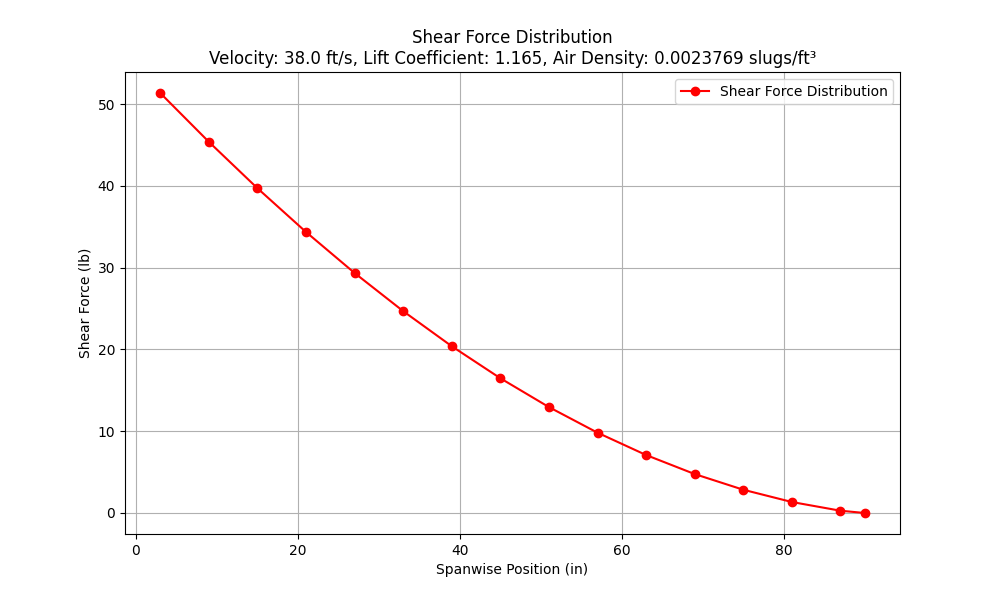
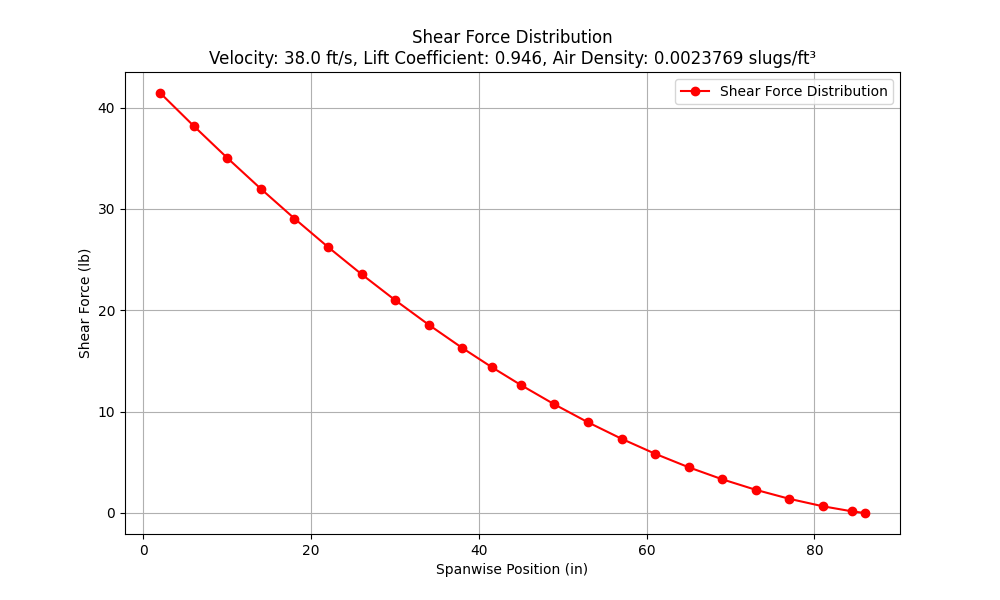
update 12

diff --git a/Prandtl_Elliptical_Lift_Distribution.py b/Prandtl_Elliptical_Lift_Distribution.py
@@ -4,7 +4,7 @@ import matplotlib.pyplot as plt
 import logging
 
 class EllipticalLiftDistribution:
-    def __init__(self, span, lift_coefficient, rho, velocity, root_chord, tip_chord, output_folder='Wing_Loading',design_load=3.52):
+    def __init__(self, span, lift_coefficient, rho, velocity, root_chord, tip_chord, output_folder='Wing_Loading', design_load=3.52):
         self.span = span
         self.lift_coefficient = lift_coefficient
         self.rho = rho
@@ -16,13 +16,15 @@ class EllipticalLiftDistribution:
         os.makedirs(self.output_folder, exist_ok=True)
         logging.info(f"Parameters: span={span} in, lift_coefficient={lift_coefficient}, rho={rho}, velocity={velocity} ft/s, root_chord={root_chord} in, tip_chord={tip_chord} in")
 
+    # Calculate lift at a given spanwise position
     def lift_at_position(self, y_position):
         b = self.span / 2  # Semi-span
         taper_ratio = self.tip_chord / self.root_chord
         chord_length = self.root_chord * (1 - (1 - taper_ratio) * y_position / b)  # Linear taper
         lift = (4 * self.lift_coefficient * self.rho * self.velocity**2 * chord_length) / (np.pi * self.span) * np.sqrt(1 - (y_position / b)**2)
         return lift, chord_length  # Return lift in lb/in
-
+    
+    # Calculate loads, shear forces, and bending moments
     def calculate_distributions(self, positions):
         lifts_and_chords = [self.lift_at_position(pos) for pos in positions]
         lifts_and_chords[-1] = (0, self.tip_chord)  # Add zero lift at the wingtip
@@ -31,7 +33,9 @@ class EllipticalLiftDistribution:
         for i in range(len(positions) - 1):
             delta_pos = positions[i + 1] - positions[i]
             loads[i] = lifts_and_chords[i][0] * delta_pos
+            logging.debug(f"Position {positions[i]:.2f} in, Lift {lifts_and_chords[i][0]:.2f} lb/in, Delta Pos {delta_pos:.2f} in, Load {loads[i]:.2f} lb")
         loads[-1] = lifts_and_chords[-1][0] * (positions[-1] - positions[-2])
+        logging.debug(f"Position {positions[-1]:.2f} in, Lift {lifts_and_chords[-1][0]:.2f} lb/in, Delta Pos {positions[-1] - positions[-2]:.2f} in, Load {loads[-1]:.2f} lb")
 
         shear_forces = np.zeros(len(positions))
         for i in range(len(positions) - 1, -1, -1):
@@ -39,6 +43,7 @@ class EllipticalLiftDistribution:
                 shear_forces[i] = 0  # Shear force at the wing tip is zero
             else:
                 shear_forces[i] = shear_forces[i + 1] + loads[i]
+            logging.debug(f"Position {positions[i]:.2f} in, Shear Force {shear_forces[i]:.2f} lb")
 
         bending_moments = np.zeros(len(positions))
         for i in range(len(positions) - 1, -1, -1):
@@ -47,9 +52,11 @@ class EllipticalLiftDistribution:
             else:
                 delta_pos = positions[i + 1] - positions[i]
                 bending_moments[i] = bending_moments[i + 1] + shear_forces[i] * delta_pos
+            logging.debug(f"Position {positions[i]:.2f} in, Bending Moment {bending_moments[i]:.2f} lb-in")
 
         return lifts_and_chords, loads, shear_forces, bending_moments
 
+    # Plot distributions
     def plot_distribution(self, positions, values, ylabel, title, filename, figure_num, color='b', fontweight='normal'):
         plt.figure(num=figure_num, figsize=(10, 6))
         plt.plot(positions, values, '-o', label=title, color=color)
@@ -62,10 +69,12 @@ class EllipticalLiftDistribution:
         plt.show()
         logging.info(f"Plotted and saved the {title.lower()}")
 
+    # Log results
     def log_results(self, positions, lifts_chords_loads_shear_moment):
         for pos, (lift, chord, load, shear_force, bending_moment) in zip(positions, lifts_chords_loads_shear_moment):
             logging.info(f"Lift per unit span at {pos:.2f} in: {lift:.2f} lb/in, Chord length: {chord:.2f} in, Load: {load:.2f} lb, Shear force: {shear_force:.2f} lb, Bending moment: {bending_moment:.2f} lb-in")
 
+    # Size the spar
     def size_spar(self, bending_moments, yield_strength):
         max_bending_moment = max(bending_moments)
         required_section_modulus = max_bending_moment * self.design_load / yield_strength
@@ -108,12 +117,12 @@ class EllipticalLiftDistribution:
 # Example usage
 if __name__ == "__main__":
     # Configure logging
-    logging.basicConfig(filename='Wing_Loading_Log.log', level=logging.INFO, 
+    logging.basicConfig(filename='Wing_Loading_Log.log', level=logging.DEBUG, 
                         format='%(asctime)s - %(levelname)s - %(message)s')
 
     # Define parameters in imperial units (inches)
     span = 15 * 12  # Total wingspan in inches
-    lift_coefficient = 1.165  # Lift coefficient (CL)
+    lift_coefficient = .946  # Lift coefficient (CL)
     rho = 0.0023769  # Air density in slugs/ft³
     velocity = 38.0  # Flight velocity in feet per second
     root_chord = 3 * 12  # Root chord length in inches
@@ -126,7 +135,7 @@ if __name__ == "__main__":
     distribution = EllipticalLiftDistribution(span, lift_coefficient, rho, velocity, root_chord, tip_chord)
 
     # Example positions in inches
-    positions = [0.25 * 12, 0.75 * 12, 1.25 * 12, 1.75 * 12, 2.25 * 12, 2.75 * 12, 3.25 * 12, 3.75 * 12, 4.25 * 12, 4.75 * 12, 5.25 * 12, 5.75 * 12, 6.25 * 12, 6.75 * 12, 7.25 * 12, 7.5 * 12]
+    positions = [0.166667 * 12, 0.5 * 12, 0.833333 * 12, 1.16667 * 12, 1.5 * 12, 1.83333 * 12, 2.16667 * 12, 2.5 * 12, 2.83333 * 12, 3.16667 * 12, 3.458333 * 12, 3.75 * 12, 4.08333 * 12, 4.41667 * 12, 4.75 * 12, 5.08333 * 12, 5.41667 * 12, 5.75 * 12, 6.08333 * 12, 6.41667 * 12, 6.75 * 12, 7.041667 * 12, 7.16667 * 12]
 
     # Calculate distributions
     lifts_and_chords, loads, shear_forces, bending_moments = distribution.calculate_distributions(positions)
@@ -142,9 +151,6 @@ if __name__ == "__main__":
 
     # Log results
     distribution.log_results(positions, lifts_chords_loads_shear_moment)
-
-    # Save log to picture
-    # distribution.save_log_to_picture(log_filename='Wing_Loading_Log.log', output_filename='Wing_Loading_log.png')
 
     # Size the spar
     yield_strength = 12742  # Example yield strength in psi
